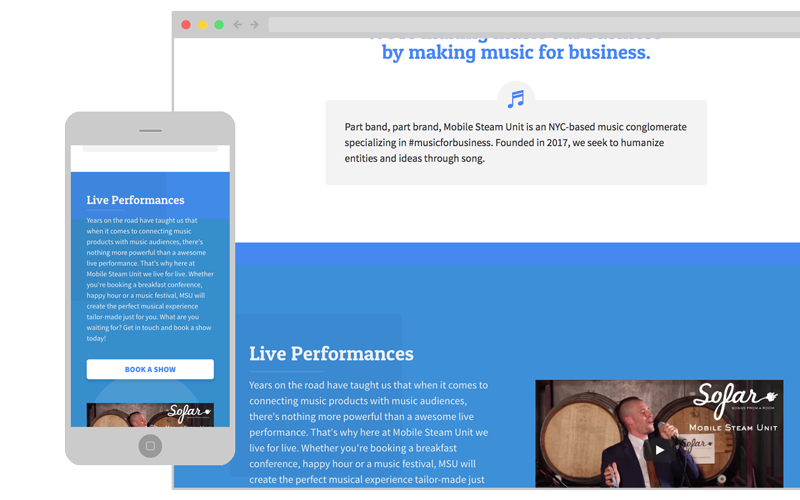
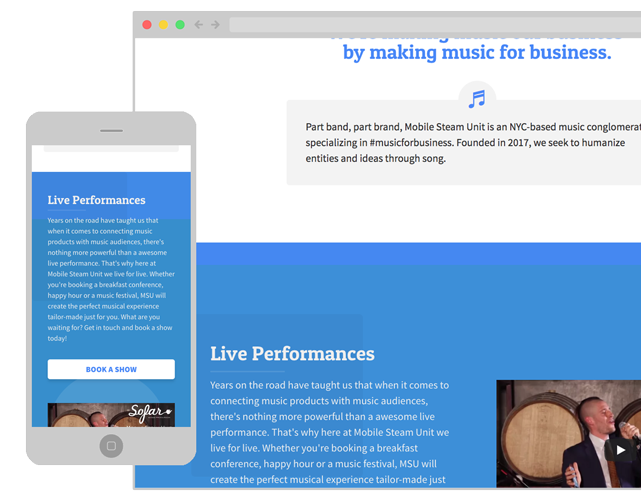
add/fix images

diff --git a/src/components/Work.vue b/src/components/Work.vue
@@ -21,7 +21,7 @@
 							'My favorite aspect of the site is the team section profile pictures. Each band member has a cheesy corporate photo that upon hover reveals a shot of them on stage. I really wanted to recreate this effect on mobile and came up with the idea to trigger the reveal based on the scroll position. I\'m thrilled with how it and the rest of the site came out!'
 						],
 						contributions: ['design', 'development'],
-						imgPath: 'static/steam-sample-img.png',
+						imgPath: '/static/steam-sample-img.png',
 						link: {
 							url: 'https://mcolo.github.io/msu',
 							title: 'Mobile Steam Unit Website'
@@ -34,7 +34,7 @@
 							'A small part of inspiration came from antiquated cult sites like Heavens Gate, Angels Light and others that spew tons of information and pictures without any semblance of coherence. While there isn\'t a ton of content and there is some structure we decided that the random waveform graphs and bizarre text & imagery would be powerful enough.'
 						],
 						contributions: ['design', 'development'],
-						imgPath: '',
+						imgPath: '/static/ssp-sample-img.png',
 						link: {
 							url: 'http://sweetsynthprince.com/',
 							title: 'Sweet Synth Prince Website'
@@ -46,9 +46,9 @@
 							'This website was made for the wedding of my brother and his wife. They had searched for a simple wedding template on various CMS services but found them all to be too tacky and flashy for their taste. Since it was a destination wedding there was a lot of information about both the venue and the country that they wanted to share. All of this in combination with the likelihood that most guests would be browsing the site on a mobile device while on their visit led me create a very simple layout that was easy to navigate.'
 						],
 						contributions: ['design', 'development'],
-						imgPath: '',
+						imgPath: '/static/ms-sample-img.png',
 						link: {
-							url: 'http://michaelandsophia.com',
+							url: 'https://mcolo.github.io/ms-wedding',
 							title: 'Michael & Sophia\'s Wedding Website'
 						}
 					},

diff --git a/src/components/WorkSample.vue b/src/components/WorkSample.vue
@@ -30,7 +30,8 @@
 
 		.sample__content{
 			box-sizing: border-box;
-			flex: 2;
+			flex: 1;
+			min-width: 45%;
 		}
 
 		.sample__img {
